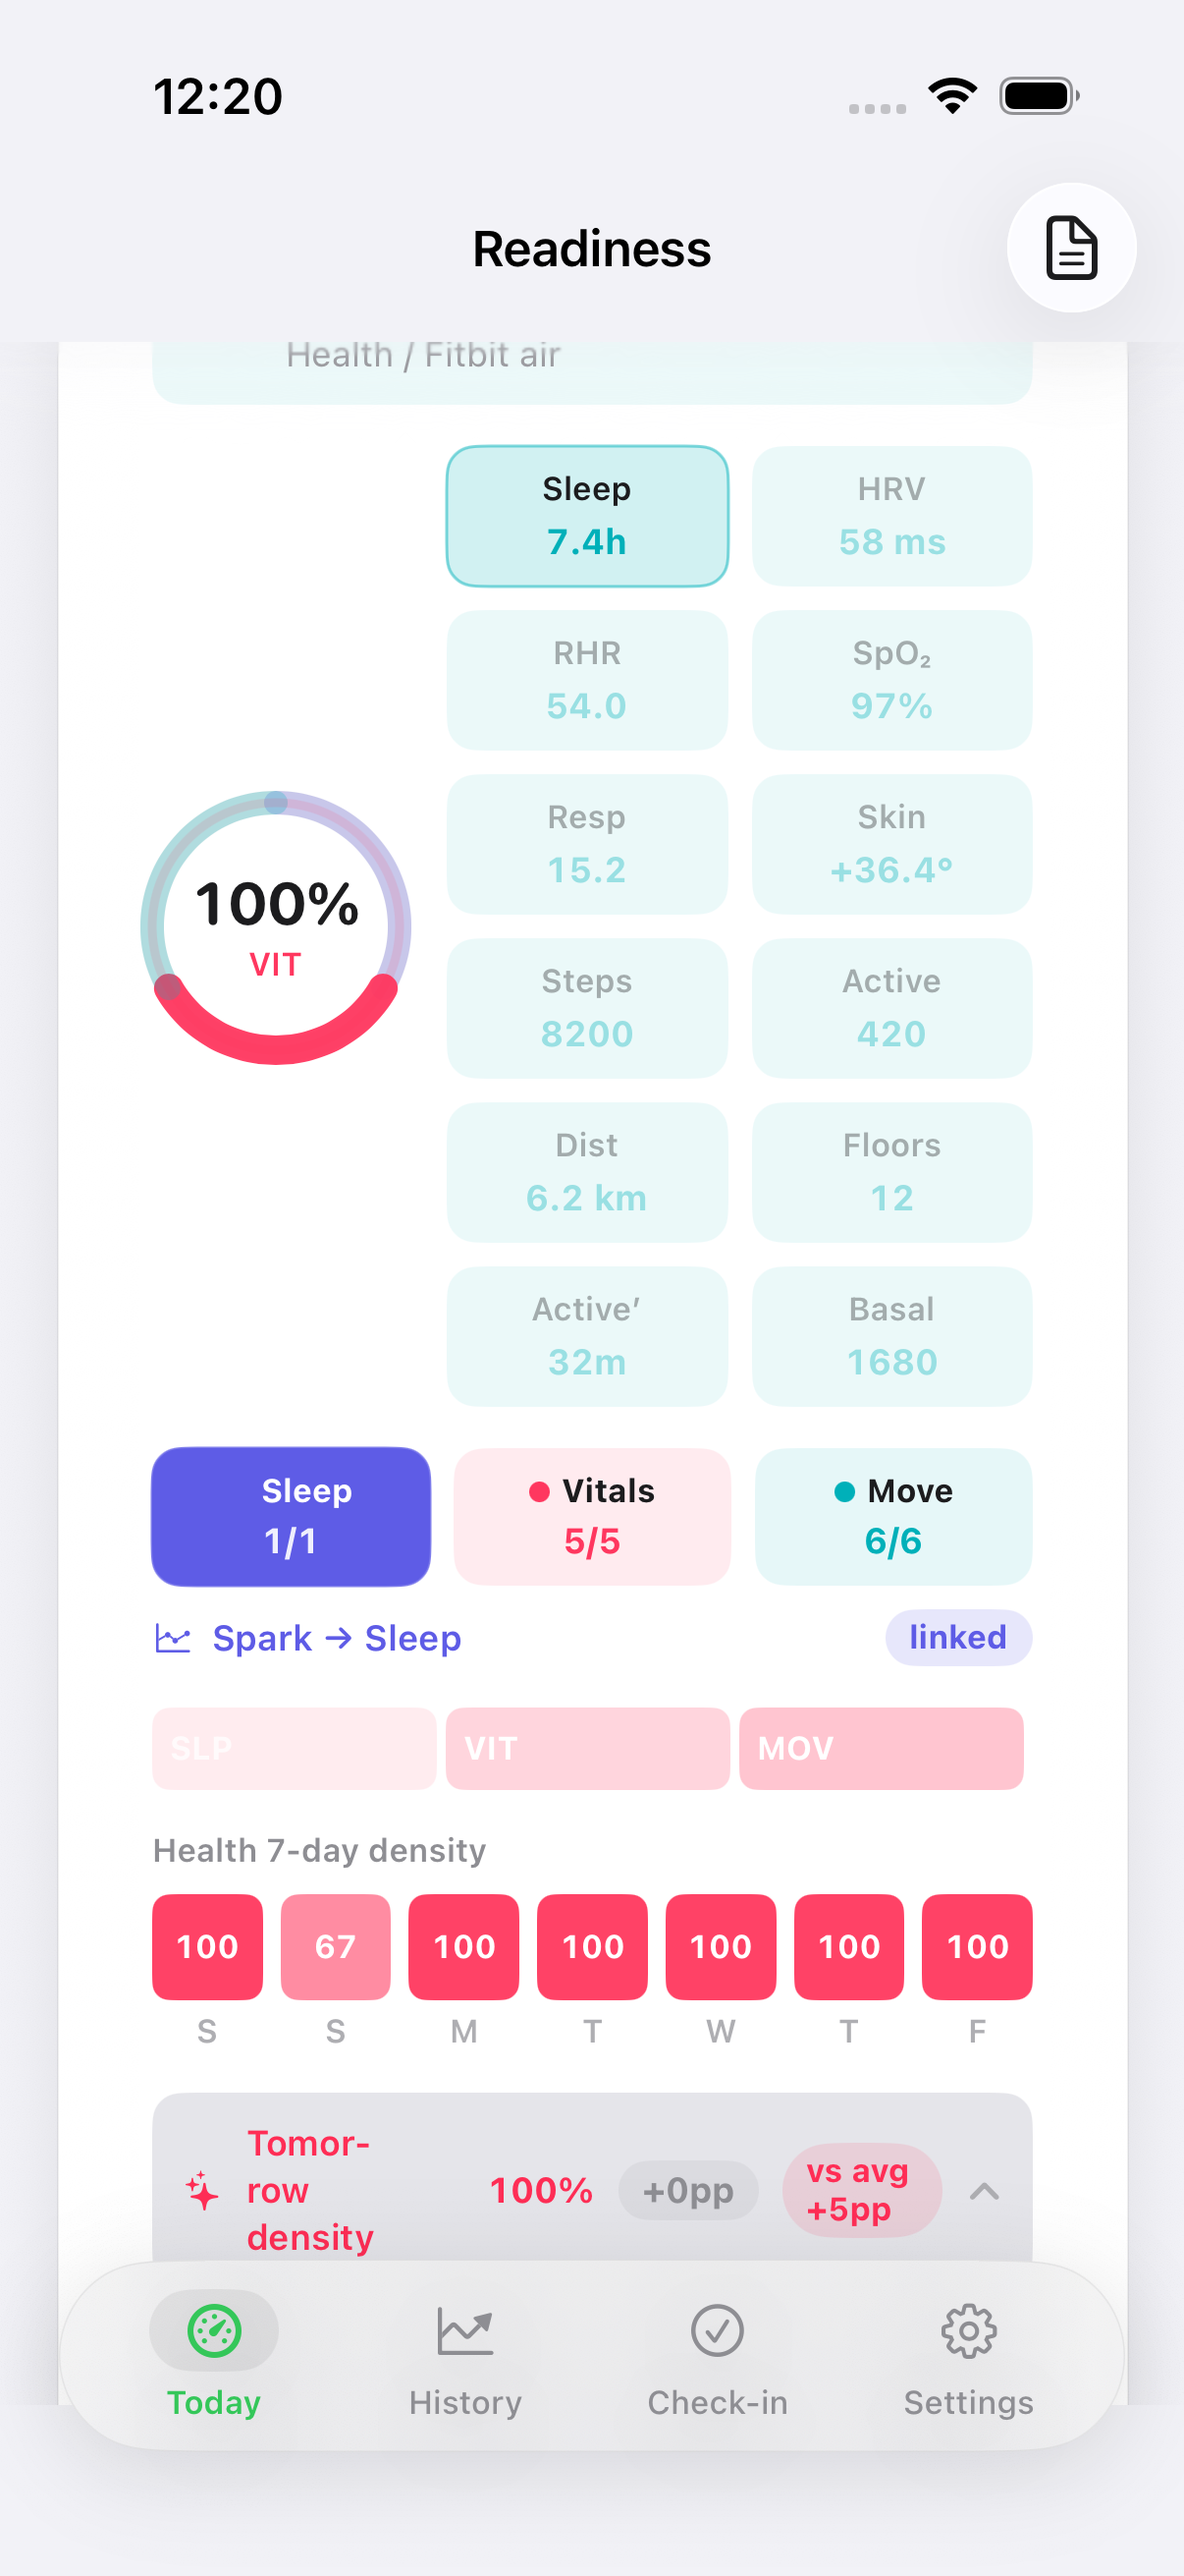
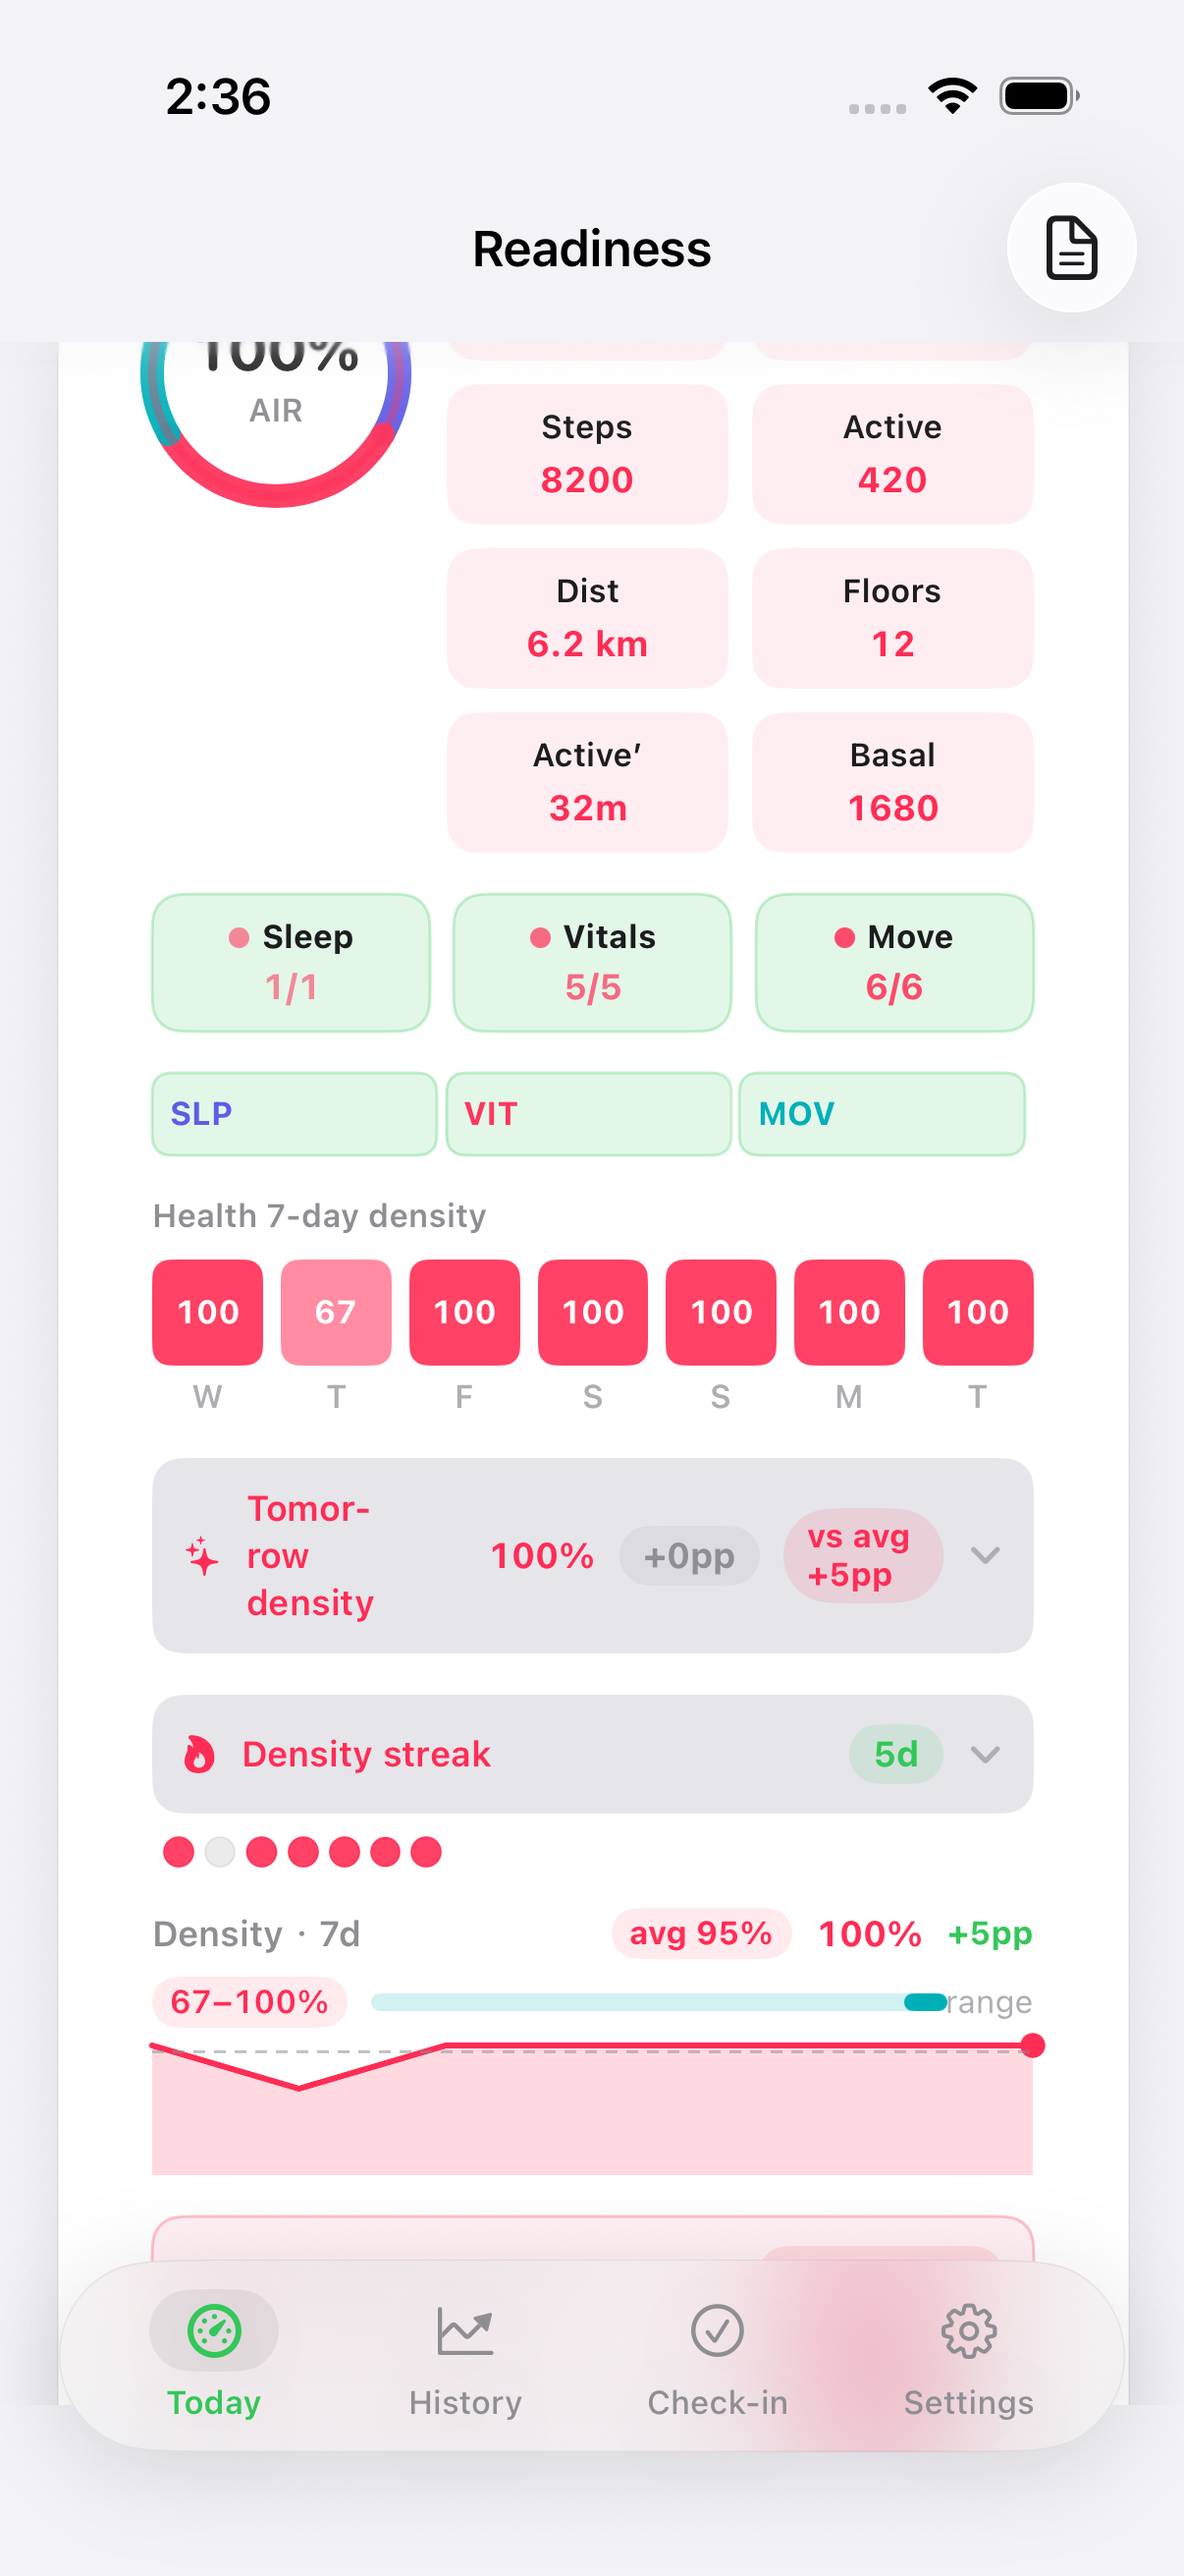
Honest #793: Density stacked bar (WHOOP wells) (#823)
Chrome-only restyle of the existing fitbit.air.density.stack /
health.air.density.stack. Idle (filled == 0) ghost/hairline 8/28
secondaryText; active complete (filled == total) 14/28 optimal;
else/partial 14/28 accent. No negative state (fill is
non-negative). Focus keeps a thicker hairline. Solid 0.85/0.35
category fills and inverted white labels dropped so label
contrast holds on the translucent well; category identity stays
on the label color. Copy, accessibilityIdentifier,
accessibilityLabel, focus-toggle math, width/fill-ratio math,
and READY formula unchanged.

UITest testDensityStackedBar passed 187.602s, 0
failures (observer 199.812s) on iPhone 17 Pro.
testReadinessLoadSimulatorSurface passed 769.880s, 0 failures
(observer 776.210s) on iPhone 17 Pro. Proof:
.audit/verify-density-stack.png

Changed region(s): [[0.1227, 0.1236, 0.8897, 0.9577], [0.1227, 0.0309, 0.2454, 0.0618]]

diff --git a/ReadinessTracker/Views/WhoopFeatures/FitbitAirDataCard.swift b/ReadinessTracker/Views/WhoopFeatures/FitbitAirDataCard.swift
@@ -750,14 +750,14 @@ struct FitbitAirDataCard: View {
         .accessibilityLabel(legendLabel)
     }
 
-    /// Honest #529: interactive Sleep/Vitals/Activity stacked density bar.
+    /// Honest #529 / #793: interactive Sleep/Vitals/Activity stacked density bar (WHOOP wells).
     /// Honest #529: density category stacked bar.
     /// Honest #686: appleWatch / HealthKit uses Health pink + health.air.density.stack (#529 parity).
     private var densityStackedBar: some View {
         let isHealth = source == .appleWatch
         let stackSID = isHealth ? SurfaceID.healthAirDensityStack : SurfaceID.fitbitAirDensityStack
         let stackLabel = isHealth ? "Health air density category stack" : "Air density category stack"
-        let focusStroke: Color = isHealth ? Color(hex: "FF2D55") : Color.white.opacity(0.9)
+        let stackAccent: Color = isHealth ? Color(hex: "FF2D55") : accent
         return GeometryReader { geo in
             let totalW = max(geo.size.width, 1)
             let weights = AirDensityCategory.allCases.map { max(0.08, $0.fillRatio(in: chips)) }
@@ -765,9 +765,21 @@ struct FitbitAirDataCard: View {
             HStack(spacing: 3) {
                 ForEach(Array(AirDensityCategory.allCases.enumerated()), id: \.element.id) { idx, cat in
                     let w = totalW * (weights[idx] / max(sum, 0.01))
-                    let fillBase = isHealth
-                        ? Color(hex: "FF2D55").opacity(0.35 + 0.22 * Double(idx))
-                        : cat.color
+                    // Honest #793: WHOOP wells on existing density stacked bar.
+                    // Idle (filled == 0) ghost/hairline 8/28 secondaryText;
+                    // active complete (filled == total) 14/28 optimal;
+                    // else/partial 14/28 accent. No negative state (fill is non-negative).
+                    // Focus keeps a thicker hairline. Solid 0.85/0.35 category fills
+                    // and inverted white labels dropped so label contrast holds on
+                    // the translucent well; category identity stays on the label color.
+                    let filled = cat.filledCount(in: chips)
+                    let total = cat.chipIDs.count
+                    let segIsActive = filled > 0
+                    let segComplete = total > 0 && filled >= total
+                    let segWellTone: Color = !segIsActive
+                        ? RTColor.secondaryText
+                        : (segComplete ? RTColor.optimal : stackAccent)
+                    let on = focusedLegend == cat
                     Button {
                         Haptic.selectionChanged()
                         focusedLegend = focusedLegend == cat ? nil : cat
@@ -781,16 +793,16 @@ struct FitbitAirDataCard: View {
                     } label: {
                         ZStack(alignment: .leading) {
                             RoundedRectangle(cornerRadius: 6, style: .continuous)
-                                .fill(fillBase.opacity(focusedLegend == nil || focusedLegend == cat ? 0.85 : 0.35))
+                                .fill(segWellTone.opacity(segIsActive ? 0.14 : 0.08))
                             Text(cat.shortTitle)
                                 .font(.caption2.weight(.bold))
-                                .foregroundStyle(Color.white)
+                                .foregroundStyle(cat.color)
                                 .padding(.horizontal, 6)
                         }
                         .frame(width: max(28, w - 3), height: 28)
                         .overlay(
                             RoundedRectangle(cornerRadius: 6, style: .continuous)
-                                .stroke(focusedLegend == cat ? focusStroke : Color.clear, lineWidth: 2)
+                                .stroke(segWellTone.opacity(0.28), lineWidth: on ? 1.5 : 1)
                         )
                     }
                     .buttonStyle(.plain)

diff --git a/ReadinessTrackerUITests/SurfacesUITests.swift b/ReadinessTrackerUITests/SurfacesUITests.swift
@@ -18355,6 +18355,40 @@ func testPeakHeartRateCardMetricDetailNavSurface() throws {
         if sleepPillHealth.exists { saveShot("verify-health-air-legend-sleep.png") }
     }
 
+    /// Honest #793: WHOOP wells on existing density stacked bar.
+    /// Tight path to the on-card Sleep / Vitals / Move stack without the
+    /// long testFitbitAirDataCardSurface walk that can hang on spark swipe-down.
+    func testDensityStackedBar() throws {
+        _ = app.staticTexts["Readiness"].waitForExistence(timeout: 8)
+        let titleFitbit = app.staticTexts["Fitbit Air"]
+        let titleHealth = app.staticTexts["Health Air"]
+        // Titles exist in the scroll hierarchy off-screen at launch; scroll until
+        // one is actually in the visible window (exists-only loops never moved).
+        var n = 0
+        while !(isOnScreen(titleFitbit) || isOnScreen(titleHealth)) && n < 30 {
+            app.swipeUp()
+            n += 1
+        }
+        XCTAssertTrue(isOnScreen(titleFitbit) || isOnScreen(titleHealth),
+                      "Fitbit Air / Health Air on-screen")
+
+        let stackFitbit = app.descendants(matching: .any)["fitbit.air.density.stack"].firstMatch
+        let stackHealth = app.descendants(matching: .any)["health.air.density.stack"].firstMatch
+        // Stack sits directly under the density legend, just below the card title.
+        // A small number of swipes is enough; large loops overscroll the meter stack.
+        var h = 0
+        while !(isOnScreen(stackFitbit) || isOnScreen(stackHealth)) && h < 4 {
+            app.swipeUp()
+            h += 1
+        }
+        XCTAssertTrue(stackFitbit.exists || stackHealth.exists
+                      || app.staticTexts.matching(NSPredicate(format: "label CONTAINS[c] %@", "air density category stack")).count > 0,
+                      "fitbit.air.density.stack / health.air.density.stack")
+        saveShot("verify-density-stack.png")
+        if stackFitbit.exists { saveShot("verify-fitbit-air-density-stack.png") }
+        if stackHealth.exists { saveShot("verify-health-air-density-stack.png") }
+    }
+
     private func revealText(_ text: String) {
         let el = app.staticTexts[text]
         var n = 0

diff --git a/ReadinessTracker/Design/Theme.swift b/ReadinessTracker/Design/Theme.swift
@@ -241,7 +241,7 @@ enum SurfaceID {
     static let interactiveRecoveryDialZones = "balance.dial.zones"  // Honest #522
     static let readinessSimulatorAirGapTasks = "sim.load.tasks.airgaps"  // Honest #523 / #777
     static let readinessSimulatorTaskCoupled = "sim.load.tasks.coupled"  // Honest #528 / #765
-    static let fitbitAirDensityStack = "fitbit.air.density.stack"  // Honest #529
+    static let fitbitAirDensityStack = "fitbit.air.density.stack"  // Honest #529 / #793
     static let readinessSimulatorSnapB = "sim.load.ab.snapb"  // Honest #530 / #725
     static let readinessSimulatorABLeverDiff = "sim.load.ab.leverdiff"  // Honest #533 / #726
     static let fitbitAirDensityForecast = "fitbit.air.density.forecast"  // Honest #534
@@ -379,7 +379,7 @@ enum SurfaceID {
     static let healthAirDensityForecast = "health.air.density.forecast"  // Honest #683
     static let healthAirDensityHeat = "health.air.density.heat"  // Honest #684
     static let healthAirDensityCycle = "health.air.density.cycle"  // Honest #685
-    static let healthAirDensityStack = "health.air.density.stack"  // Honest #686
+    static let healthAirDensityStack = "health.air.density.stack"  // Honest #686 / #793
     static let healthAirDensityWow = "health.air.density.wow"  // Honest #687
     static let healthAirDensityHeatDay = "health.air.density.heat.day"  // Honest #688
     static let healthAirDensitySpark = "health.air.density.spark"  // Honest #689

diff --git a/.audit/decision-log-2026-11-04.md b/.audit/decision-log-2026-11-04.md
@@ -600,3 +600,11 @@
 | 14:13 HKT | #792 density legend pills | prove | root cause: Air SIDs exist off-screen at launch so exists-only loops never scrolled; isOnScreen(title) then at most 4 swipes to the pills; recapture; model=deepseek-flash |
 | 14:17 HKT | #792 density legend pills | prove | UITest testDensityLegendPills green /tmp/RT-DD792 (194.185s, 0 failures; observer 198.856s); proof .audit/verify-density-legend.png (Health Sleep 1/1, Vitals 5/5, Move 6/6 complete, optimal 14/28, 105949 hits of (227,247,232)); model=deepseek-flash |
 | 14:17 HKT | #792 density legend pills | land | proof PNG + receipt; SID fitbit.air.density.legend / health.air.density.legend / fitbit.air.legend.* / health.air.legend.*; PR squash next; model=deepseek-flash |
+
+| 14:26 HKT | Honest #793 density stacked bar | model=deepseek-flash | restyle existing fitbit.air.density.stack / health.air.density.stack after density legend #792; WHOOP ghost/active wells; solid 0.85/0.35 fills and white labels dropped so contrast holds; category identity stays on label color; mechanical pattern-copy of #792 fill-complete tones applied locally (no separate model iterate needed) | mid-ship |
+| 14:26 HKT | Honest #793 density stacked bar | prove | starting build-for-testing /tmp/RT-DD793; model=deepseek-flash | mid-ship |
+| 14:36 HKT | #793 density stacked bar | prove | starting tight UITest testDensityStackedBar /tmp/RT-DD793; model=deepseek-flash | mid-ship |
+| 14:36 HKT | #793 density stacked bar | prove | UITest testDensityStackedBar green /tmp/RT-DD793 (187.602s, 0 failures; observer 199.812s); proof .audit/verify-density-stack.png (Health stack SLP/VIT/MOV complete, optimal 14/28 well fill 172976 hits of (227,247,232); category-colored labels readable); model=deepseek-flash |
+| 14:37 HKT | #793 density stacked bar | prove | starting UITest testReadinessLoadSimulatorSurface /tmp/RT-DD793; model=deepseek-flash | mid-ship |
+| 14:52 HKT | #793 density stacked bar | prove | UITest testReadinessLoadSimulatorSurface green /tmp/RT-DD793 (769.880s, 0 failures; observer 776.210s); model=deepseek-flash |
+| 14:52 HKT | #793 density stacked bar | land | proof PNG + receipt; SID fitbit.air.density.stack / health.air.density.stack; PR squash next; model=deepseek-flash |

diff --git a/.audit/density-stack.md b/.audit/density-stack.md
@@ -1,0 +1,8 @@
+# Honest #529 / #686 / #793: Density stacked bar (WHOOP wells)
+
+Fitbit/Health on-card Sleep / Vitals / Move density category stacked bar.
+Chrome-only WHOOP wells on the existing Honest #529 / #686 stack.
+Idle (filled == 0) = ghost/hairline 8/28 using secondaryText; active complete (filled == total) = 14/28 optimal; else/partial = 14/28 accent. No negative state (fill is non-negative).
+Copy, accessibilityIdentifier, accessibilityLabel, focus-toggle math, width/fill-ratio math, and READY formula unchanged. Focus keeps a thicker hairline. Solid 0.85/0.35 category fills and inverted white labels dropped so label contrast holds on the translucent well; category identity stays on the label color.
+SurfaceID: `fitbit.air.density.stack` / `health.air.density.stack`
+Proof: `.audit/verify-density-stack.png`

diff --git a/.audit/features/density-stack.md b/.audit/features/density-stack.md
@@ -1,0 +1,7 @@
+# Honest #529 / #686 / #793: Density stacked bar (WHOOP wells)
+
+Chrome-only WHOOP wells on the existing density stacked bar (`fitbit.air.density.stack` / `health.air.density.stack`).
+Idle (filled == 0) = ghost/hairline 8/28 using secondaryText; active complete (filled == total) = 14/28 optimal; else/partial = 14/28 accent. No negative state (fill is non-negative).
+Copy, accessibilityIdentifier, accessibilityLabel, focus-toggle math, width/fill-ratio math, and READY formula unchanged.
+SurfaceID: `fitbit.air.density.stack` / `health.air.density.stack`
+Proof: UITest → `.audit/verify-density-stack.png`

diff --git a/.audit/health-air-density-stack.md b/.audit/health-air-density-stack.md
@@ -1,7 +1,7 @@
-# Honest #686: Health Air density stack
+# Honest #686 / #793: Health Air density stack (WHOOP wells)
 
-Density category stacked bar (Sleep / Vitals / Activity) — Health pink / Google Health graphics.
+Density category stacked bar (Sleep / Vitals / Activity) — chrome-only WHOOP wells.
 SurfaceID: `health.air.density.stack`
 Parity: Fitbit #529 (`fitbit.air.density.stack`)
-Proof: `.audit/verify-health-air-density-stack.png`
+Proof: `.audit/verify-density-stack.png` / `.audit/verify-health-air-density-stack.png`
 model=deepseek-flash

diff --git a/.audit/features/health-air-density-stack.md b/.audit/features/health-air-density-stack.md
@@ -1,7 +1,7 @@
-# Honest #686: Health Air density stack
+# Honest #686 / #793: Health Air density stack (WHOOP wells)
 
-Density category stacked bar (Sleep / Vitals / Activity) — Health pink / Google Health graphics.
+Density category stacked bar (Sleep / Vitals / Activity) — chrome-only WHOOP wells.
 SurfaceID: `health.air.density.stack`
 Parity: Fitbit #529 (`fitbit.air.density.stack`)
-Proof: `.audit/verify-health-air-density-stack.png`
+Proof: `.audit/verify-density-stack.png`
 model=deepseek-flash

diff --git a/.audit/fitbit-air-density-stack.md b/.audit/fitbit-air-density-stack.md
@@ -1,4 +1,3 @@
-Honest #529: Fitbit Air density category stack
+Honest #529 / #793: Fitbit Air density category stack (WHOOP wells)
 SurfaceID fitbit.air.density.stack
-Proof: UITest testFitbitAirDataCardSurface PASS iPhone 17 Pro 26.5
-.audit/verify-fitbit-air-density-stack.png
+Proof: UITest testDensityStackedBar → .audit/verify-density-stack.png / .audit/verify-fitbit-air-density-stack.png
